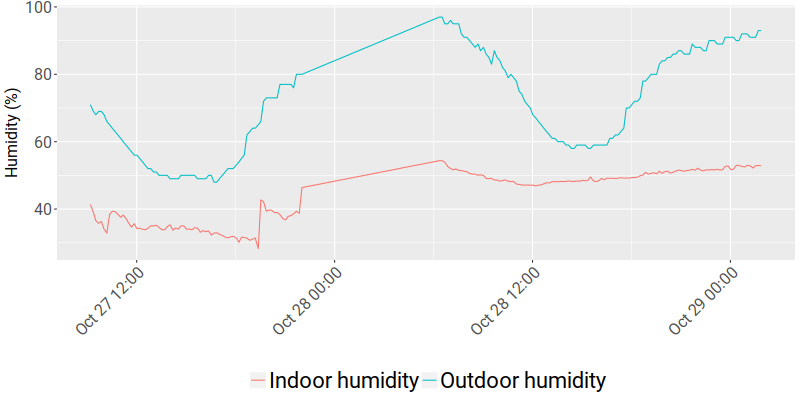
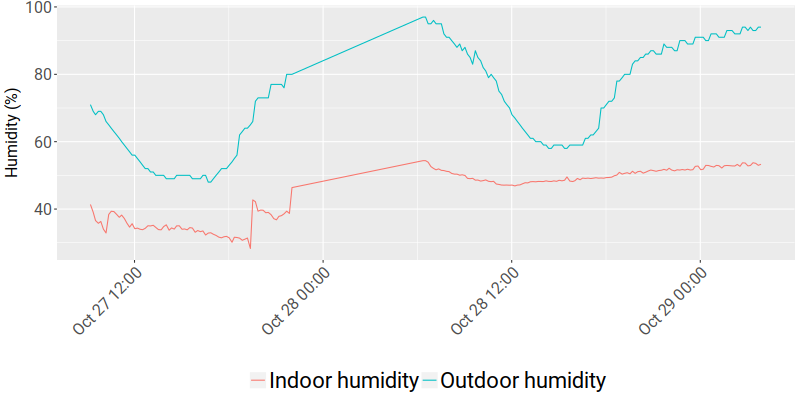
Update live temperature on site

diff --git a/temperature.js b/temperature.js
@@ -1,1 +1,1 @@
-document.write("<h4>Inside Temperature: 22.0°C</h4><h4>Outside Temperature: 13.14°C</h4><h4>Fermenter 1 Temperature: 21.44°C</h4><h4>Fermenter 2 Temperature: 21.25°C</h4><h4>Inside Humidity: 52.89%</h4><h4>Outside Humidity: 93.0%</h4><br>Last update: 2017-10-29 01:51:07");
+document.write("<h4>Inside Temperature: 21.06°C</h4><h4>Outside Temperature: 13.82°C</h4><h4>Fermenter 1 Temperature: 21.31°C</h4><h4>Fermenter 2 Temperature: 21.19°C</h4><h4>Inside Humidity: 53.29%</h4><h4>Outside Humidity: 94.0%</h4><br>Last update: 2017-10-29 03:51:43");
